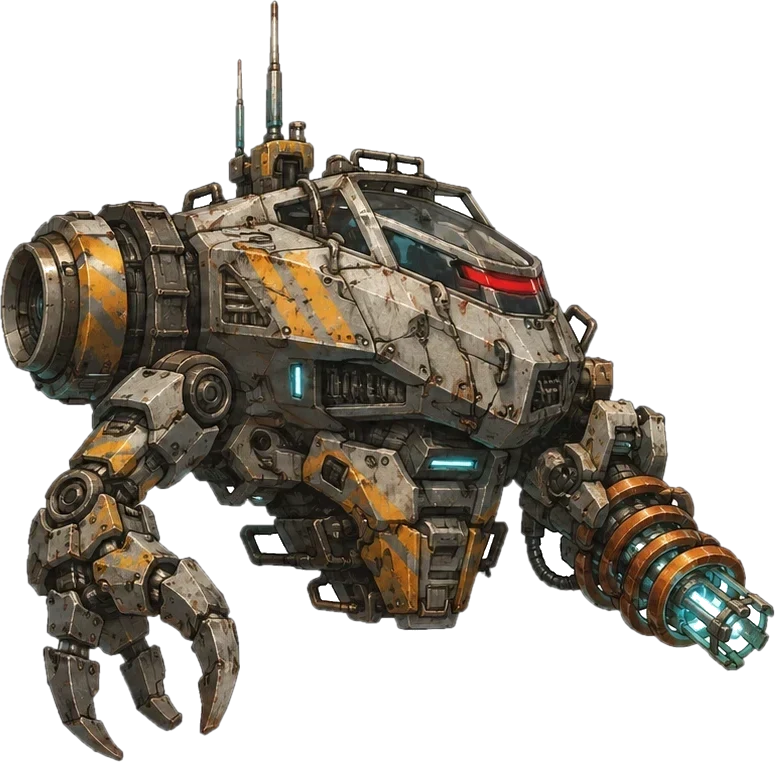
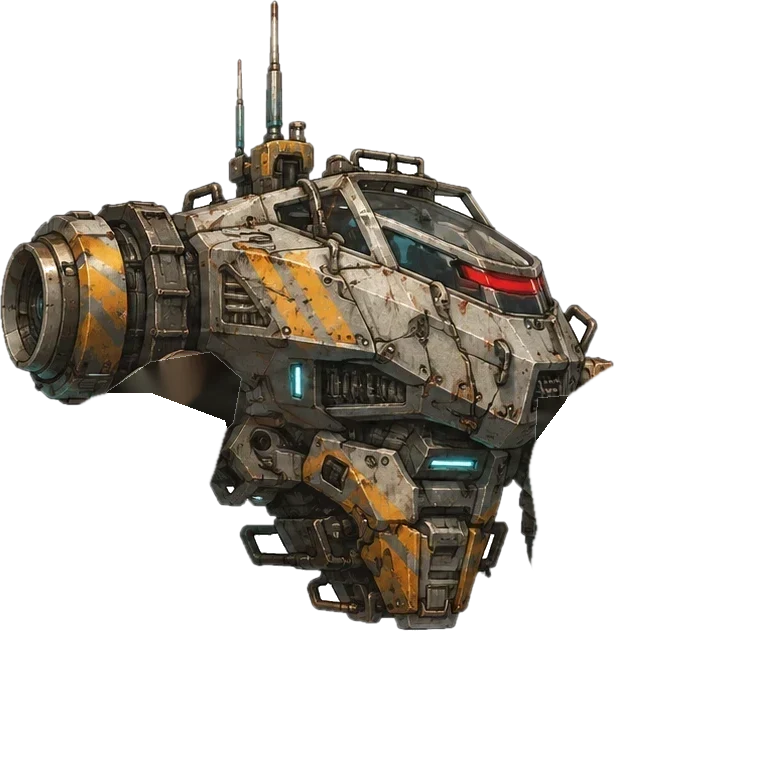
Дуга: руки по частям (клешня, пушка), стойка и выстрел с отдачей — как у остальных мехов
Claude-Session: https://claude.ai/code/session_01FTFKVZCwjBK7sPbpwkE4X1

Changed region(s): [[0.031, 0.4528, 0.3097, 1.0], [0.6813, 0.4829, 1.0, 0.9055]]

diff --git a/abyss/js/data/heroes.js b/abyss/js/data/heroes.js
@@ -54,7 +54,7 @@ for (const [id, h] of Object.entries(AB.HEROES)) if (h.name && !AB.ID.has(id)) A
 Object.assign(AB.VEHICLES['EQUIP-005'], { class: 'energy', ability: { id: 'chain', name: 'Разряд', text: 'Каждый 4-й выстрел перескакивает на второго врага в 2 клетках (50% урона).', every: 4, part: 0.5, radius: 2 } });
 Object.assign(AB.VEHICLES['EQUIP-018'], { class: 'support', ability: { id: 'medkit', name: 'Аптечка', text: 'Лечит союзников в 2 клетках: 1,5 здоровья в секунду.', radius: 2, hps: 1.5 } });
 Object.assign(AB.VEHICLES, {
-  'EQUIP-101': { id: 'EQUIP-101', name: 'Энергоход «Дуга»', short: 'Дуга', class: 'energy', shape: 'arc', img: 'assets/vehicles/arc.webp' /* №173: картинка автора */, anim: { kind: 'rig', rig: { dir: 'assets/vehicles/arc-rig/', stance: true, pk: 0.91 /* №203: стойка, ступни на месте, упор и отдача при выстреле — как у Молота и Кузнеца */, hip: [400, 540], hipFar: [372, 532], thigh: { top: [52, 50], knee: [100, 262] }, shin: { top: [82, 50], foot: [120, 425] } } } /* №175: шагоход по частям — точки суставов в пикселях картинок деталей */, speed: 26, attack: 14, rate: 1.0, reach: 3, armor: 0.1, dtype: 'energy', armorType: 'energy',
+  'EQUIP-101': { id: 'EQUIP-101', name: 'Энергоход «Дуга»', short: 'Дуга', class: 'energy', shape: 'arc', img: 'assets/vehicles/arc.webp' /* №173: картинка автора */, anim: { kind: 'rig', rig: { dir: 'assets/vehicles/arc-rig/', stance: true, pk: 0.91 /* №203: стойка, ступни на месте, упор и отдача при выстреле — как у Молота и Кузнеца */, gun: true, arms3: { scale: 1, near: { shoulder: [212, 385], sfx: '', off: [-0.3, 1.05] }, far: { shoulder: [560, 440], sfx: '_far', ua: { top: [560, 440], elbow: [612, 495] }, fa: { top: [612, 495], wrist: [630, 520] }, fist: { wrist: [630, 520], rot: 0 }, off: [0.2, 0.95] }, ua: { top: [212, 385], elbow: [75, 495] }, fa: { top: [75, 495], wrist: [135, 580] }, fist: { wrist: [135, 580], rot: 0 }, palm: { wrist: [135, 580], rot: 0 } } /* №207: руки вырезаны из корпуса (клешня, пушка) — двигаются, как у Молота и Кузнеца; корпус с руками — body-full.webp */, hip: [400, 540], hipFar: [372, 532], thigh: { top: [52, 50], knee: [100, 262] }, shin: { top: [82, 50], foot: [120, 425] } } } /* №175: шагоход по частям — точки суставов в пикселях картинок деталей */, speed: 26, attack: 14, rate: 1.0, reach: 3, armor: 0.1, dtype: 'energy', armorType: 'energy',
     ability: { id: 'stun', name: 'Перегрузка', text: 'Каждый 3-й выстрел оглушает цель на 1,5 с.', every: 3, time: 1.5 }, desc: 'Лёгкий шагоход Архива с дуговым излучателем. Трофей Стража Архива.' },
   'EQUIP-102': { id: 'EQUIP-102', name: 'Шагоход «Молот»', short: 'Молот', class: 'kinetic', shape: 'walker', img: 'assets/vehicles/hammer.webp' /* №176: собрана из деталей */, anim: { kind: 'rig', rig: { dir: 'assets/vehicles/hammer-rig/', hip: [380, 600], hipFar: [345, 592], thigh: { top: [52, 48], knee: [100, 290] }, shin: { top: [100, 50], foot: [140, 440] }, heavy: true,
       arms3: { scale: 0.6, near: { shoulder: [190, 350], sfx: '' }, far: { shoulder: [505, 385], sfx: '_far' } /* №180: ближнее плечо — большой наплечник слева на корпусе */,

diff --git a/abyss/js/iso/iso-surface.js b/abyss/js/iso/iso-surface.js
@@ -1827,8 +1827,14 @@ AB.IsoSurface = (() => {
     cock:  [ -34,   34, -0.12, -0.36, 0.42, 0.4, 0.14,  0, 0, 0, 0],   // выстрел — сразу: отдача назад и присед
     strike:[   6,   28, 0.06, -0.36, 0.42, 0.4,  0.14,  0, 0, 0, 0],   // корпус возвращается вперёд
   };
+  // №207: стрелок с руками (Дуга): клешня — у груди, пушка поднимается к цели, отдача — корпус назад; ступни стоят
+  const RIG_GUN = {
+    rest:  RIG_POSES.rest,
+    cock:  [ -34,   34, -0.12, -0.36, 0.42, 0.4, 0.14,  0.45, -1.2, -0.75, -0.45],   // выстрел — сразу: пушка вскинута, отдача
+    strike:[   6,   28, 0.06, -0.36, 0.42, 0.4,  0.14,  0.35, -1.1, -0.45, -0.7],
+  };
   function rigPose(at, sword, shot) {
-    const L = (A, B, t) => A.map((v, i) => v + (B[i] - v) * t), E = (t) => t * t * (3 - 2 * t), P = shot ? RIG_SHOT : sword ? RIG_SWORD : RIG_POSES;
+    const L = (A, B, t) => A.map((v, i) => v + (B[i] - v) * t), E = (t) => t * t * (3 - 2 * t), P = shot === 'gun' ? RIG_GUN : shot ? RIG_SHOT : sword ? RIG_SWORD : RIG_POSES;
     if (at < 0.3) return { q: L(P.rest, P.cock, E(at / 0.3)), open: at > 0.1 };
     if (at < 0.4) { const t = (at - 0.3) / 0.1; return { q: L(P.cock, P.strike, t * t), open: false, fast: true }; }   // разгон — с ускорением
     if (at < 0.55) return { q: P.strike, open: false, hold: true };
@@ -1842,7 +1848,7 @@ AB.IsoSurface = (() => {
     const f = s.face || 1, mv = !!s.anim, ph = s.stride / (R.heavy ? 15 : 11);   // тяжёлый — шаг реже
     const full = R.hip[1] + (R.thigh.knee[1] - R.thigh.top[1]) + (R.shin.foot[1] - R.shin.top[1]);   // от верха корпуса до ступни
     const k = (S0 * 1.6) / full;
-    const SW = !!v.sword, ST0 = R.arms3 || R.stance, at = s.atk && ST0 ? Math.min(1, s.atk.t / 0.8) : -1, A = at >= 0 ? rigPose(at, SW, !R.arms3) : null;   // №203: стойка и удар/выстрел — у всех мехов
+    const SW = !!v.sword, ST0 = R.arms3 || R.stance, at = s.atk && ST0 ? Math.min(1, s.atk.t / 0.8) : -1, A = at >= 0 ? rigPose(at, SW, R.gun ? 'gun' : !R.arms3) : null;   // №203: стойка и удар/выстрел — у всех мехов
     // №183: стоя — боевая стойка (плавно из ходьбы и обратно); на ходу — шаг
     s.stk = Math.max(0, Math.min(1, (s.stk == null ? 1 : s.stk) + (mv ? -frameDt * 5 : frameDt * 2.5)));
     let Q = A ? A.q : null;
@@ -1944,7 +1950,7 @@ AB.IsoSurface = (() => {
       g.save(); torso();
       if (R.arms3) {
         // след кулака на разгоне и в ударе — полупрозрачные «тени» прежних поз
-        if (A && (A.fast || A.hold)) for (const d of [0.05, 0.035, 0.02]) { const B = rigPose(Math.max(0.3, at - d), SW); g.globalAlpha = A.hold ? 0.12 : 0.28; arm3('near', B.q[7], B.q[8], false); }
+        if (A && !R.gun && (A.fast || A.hold)) for (const d of [0.05, 0.035, 0.02]) { const B = rigPose(Math.max(0.3, at - d), SW); g.globalAlpha = A.hold ? 0.12 : 0.28; arm3('near', B.q[7], B.q[8], false); }
         g.globalAlpha = 1;
         arm3('near', Q ? Q[7] : sway * 1.6 + 0.12, Q ? Q[8] : -0.7, A && !SW ? A.open : false);
       } else arm(R.arms.near, sway);

diff --git a/abyss/tools/cut_arc.py b/abyss/tools/cut_arc.py
@@ -1,0 +1,49 @@
+# Дуга (№207): вырезать руки из корпуса (assets/vehicles/arc-rig/body-full.webp — прежний корпус с руками), корпус — без рук
+import numpy as np, cv2, sys
+from PIL import Image, ImageDraw, ImageFilter
+SRC = '/home/user/HoReCa-Baku/abyss/assets/vehicles/arc-rig/body-full.webp'
+im = Image.open(SRC).convert('RGBA'); W, H = im.size
+A = np.array(im)
+P = {  # №207: руки Дуги в координатах корпуса (775×762)
+ 'ua':      [(95,400),(150,362),(210,352),(240,378),(232,422),(200,452),(150,490),(112,520),(60,522),(44,482),(70,450)],
+ 'fa':      [(28,505),(60,470),(105,470),(150,480),(182,500),(198,540),(178,575),(140,590),(90,600),(45,610),(24,570)],
+ 'fist':    [(38,602),(90,592),(140,587),(182,577),(202,560),(238,570),(248,640),(242,712),(205,752),(150,748),(100,772),(48,762),(36,700)],
+ 'ua_far':  [(538,398),(600,392),(662,408),(668,460),(642,508),(602,520),(562,508),(534,468)],
+ 'fa_far':  [(590,486),(628,478),(650,500),(646,530),(618,540),(592,524)],
+ 'fist_far':[(572,520),(612,505),(650,482),(705,500),(775,555),(775,665),(720,684),(640,645),(590,585),(566,545)],
+}
+TORSO = [(0,200),(200,170),(300,150),(540,190),(595,330),(565,400),(528,450),(505,520),(475,592),(400,615),(330,605),(270,565),(240,480),(225,420),(150,392),(60,392),(0,335)]
+def poly_mask(pts, blur=0):
+    m = Image.new('L', (W, H), 0); ImageDraw.Draw(m).polygon(pts, fill=255)
+    if blur: m = m.filter(ImageFilter.GaussianBlur(blur))
+    return np.array(m)
+out = sys.argv[1]
+names = list(P.keys())
+lab = np.zeros((H, W), np.int32)                       # 0 — не размечено, 1 — корпус, 2.. — детали
+lab[poly_mask(TORSO) > 0] = 1
+for i, n in enumerate(names): lab[poly_mask(P[n]) > 0] = i + 2
+opaque = A[..., 3] > 8
+# неразмеченные непрозрачные пиксели — ближайшей детали (или корпусу)
+seed = (lab > 0).astype(np.uint8)
+d, idx = cv2.distanceTransformWithLabels((1 - seed).astype(np.uint8), cv2.DIST_L2, 5, labelType=cv2.DIST_LABEL_PIXEL)
+ys, xs = np.nonzero(seed); lbl_of = np.zeros(idx.max() + 1, np.int32); lbl_of[idx[ys, xs]] = lab[ys, xs]
+full = np.where(lab > 0, lab, lbl_of[idx])
+def soft(m): return np.array(Image.fromarray((m * 255).astype(np.uint8)).filter(ImageFilter.GaussianBlur(0.9)))
+for i, n in enumerate(names):
+    m = soft(full == i + 2)
+    part = A.copy(); part[..., 3] = (part[..., 3].astype(np.float32) * m / 255).astype(np.uint8)
+    Image.fromarray(part).save(f'{out}/{n}.webp', 'WEBP', quality=88)
+used = (full >= 2) & opaque
+torso = poly_mask(TORSO) > 0
+hole = used & torso
+body = A.copy(); bm = soft(full == 1)
+body[..., 3] = (body[..., 3].astype(np.float32) * bm / 255).astype(np.uint8)
+rgb = cv2.cvtColor(A[..., :3], cv2.COLOR_RGB2BGR)
+known = opaque & (full == 1)
+inp = cv2.inpaint(rgb, np.where(known, 0, 255).astype(np.uint8), 7, cv2.INPAINT_TELEA)
+inp = cv2.cvtColor(inp, cv2.COLOR_BGR2RGB)
+body[hole, :3] = (inp[hole] * 0.72).astype(np.uint8); body[hole, 3] = 255
+Image.fromarray(body).save(f'{out}/body.webp', 'WEBP', quality=88)
+# palm: у Дуги — та же клешня
+Image.open(f'{out}/fist.webp').save(f'{out}/palm.webp', 'WEBP', quality=88)
+print('ok')

diff --git a/abyss/docs/GDD-CHANGES.md b/abyss/docs/GDD-CHANGES.md
@@ -211,6 +211,7 @@ GDD v0.1 остаётся основным документом. Здесь — 
 | 204 | 2026-11-26 | **Дизайн карты поверхности — объём и атмосфера** (решение автора: «3D-эффект у сооружений», «добавим дизайн карте»). Новый модуль `js/iso/iso-surface-art.js` (всё кодом, без картинок; один свет сверху-слева). Местность (в запечённой карте): мягкий свет на каждой клетке; у скал, гор, плато и органики боковые грани разной яркости (свет/полутень/тень) и затемнение у основания, тень скалы на соседние клетки; объёмные детали — деревья с кронами (лес, туманный лес, луга), камни-многогранники (пустыня, луга, кустарник, болота), блоки руин и ржавого лома, кристаллы (органика, солончаки) — все с тенями, не на дорогах и не у сооружений. Сооружения: изометрические блоки с освещёнными гранями, окнами (тёплый свет у кланов, голубой у Наследников), двускатными и изогнутыми крышами, куполом, шатрами-пирамидами, мачтами с огнями, кострами — Меновой Узел, обе столицы, все деревни, шахты, укрепления, лагеря. Атмосфера (каждый кадр): тени облаков плывут по карте, пыль и споры в воздухе, края экрана чуть темнее. Прежний рисунок оставлен запасным (если модуль не загрузился). Когда автор пришлёт картинки сооружений — встанут вместо этих. | `iso-surface-art.js`, `iso-surface.js`, `iso.html` |
 | 205 | 2026-11-26 | **Мир поверхности: зоны и условия переходов, уровни, портал и витки времени** (решение автора: «условия для открытия Б1, далее — C1 с порталом в центре; вокруг C1 три зоны Б; вход из одной A в другую A тоже по условиям; поверхность забирает органическая масса; портал возвращает назад во времени в начало, в зону A; уровни героев и техники −1, способности, вооружение и юниты остаются; по сюжету — искать, что происходит, и как это победить»). Схема и сюжетная основа — `docs/WORLD-LOOP.md`; данные — `js/data/world.js` (C1 портал → Б1, Б2, Б3 → по три зоны A кольцом: A4–A1–A2 у Б1, A5–A6–A7 у Б2, A8–A9–A3 у Б3; играбельна пока A1). Условия (`AB.WorldGates`): A1→Б1 — цепочка «Дорога на север» + главный босс A1 (ур. 3) в этом витке + средний уровень отряда ≥ 3; A1→A2 и A1→A4 — босс A1 + 2 территории; Б→C1 — три ключа хранителей Б. Карточка выхода показывает условия с ✓/✗. **Уровни** (`AB.Levels`, новое): опыт за победы на поверхности (добивший — полностью, соседи до 4 клеток — половина; враг 10 + здоровье/4, большой моб 60 × ур.), до ур. 20; техника за уровень — урон +5%, прочность +6%, броня +0,4%, герой за рулём — урон +3%; видны на ячейках отряда, в «Юнитах» и «Отряде». **Портал** (`AB.TimeLoop.rewind`): новый виток, уровни −1 (не ниже 1), карта A1 заново (туман, лагеря, территории, союз, цепочка, боссы и ключи витка), остаются герои, техника, детали, оружие, вещи, база; органическая масса с каждым витком шире (+15% радиуса земли Единого); письмо «Виток N». DEV: «Портал C1: виток времени назад». | `world.js`, `iso-progress.js`, `iso-surface.js`, `iso-roster.js`, `iso-dev.js`, `iso.css`, `iso.html`, `WORLD-LOOP.md` |
 | 206 | 2026-11-26 | **Уточнения мира от автора** (ответы на вопросы). Схема — 9 зон A по три у каждой Б (оставлена). Переход A → A — только главный босс зоны (ур. 3) в этом витке (условие «2 территории» устарело). C1: внутри захваченные массой лаборатории — отбить все, тогда портал включится (`C1.labs`, условие `labs`, `AB.WorldGates.setLab`, `portalReady`). Портал: окно «Портал · точка высадки» (`AB.TimeLoop.choose`) — выбор любой из 9 зон A (сейчас доступна A1, остальные «в разработке»), игра в выбранной зоне с начала; уровни всех героев и техники — **снова 1-й** (`levelLoss: 'all'`, прежнее «−1» — `levelLossOld`, устарело); открытые герои, техника, детали, оружие остаются. DEV-переход открывает окно выбора. | `world.js`, `iso-progress.js`, `iso-dev.js`, `iso.css`, `WORLD-LOOP.md` |
+| 207 | 2026-11-26 | **Дуга доделана, как остальные мехи** (решение автора). Руки (клешня и пушка) вырезаны из корпуса в детали — плечо, предплечье, клешня; плечо, сустав, пушка (`assets/vehicles/arc-rig/ua*, fa*, fist*`, скрипт `tools/cut_arc.py`; корпус с руками сохранён как `body-full.webp`, под руками корпус дорисован тенью). Теперь у Дуги, как у Молота и Кузнеца: руки качаются на ходу и в стойке, дыхание, широкая стойка, неподвижные ступни. Дуга бьёт издалека, поэтому своя поза выстрела (`RIG_GUN`, `gun: true`): пушка вскидывается к цели, корпус отдачей откидывается назад и возвращается, клешня — у груди; следа-«тени» руки, как у ударов вблизи, нет. Проверка: за весь выстрел ступни не сдвигаются. | `heroes.js`, `iso-surface.js`, `assets/vehicles/arc-rig/*`, `tools/cut_arc.py` |
 
 ## Открытые вопросы
 
